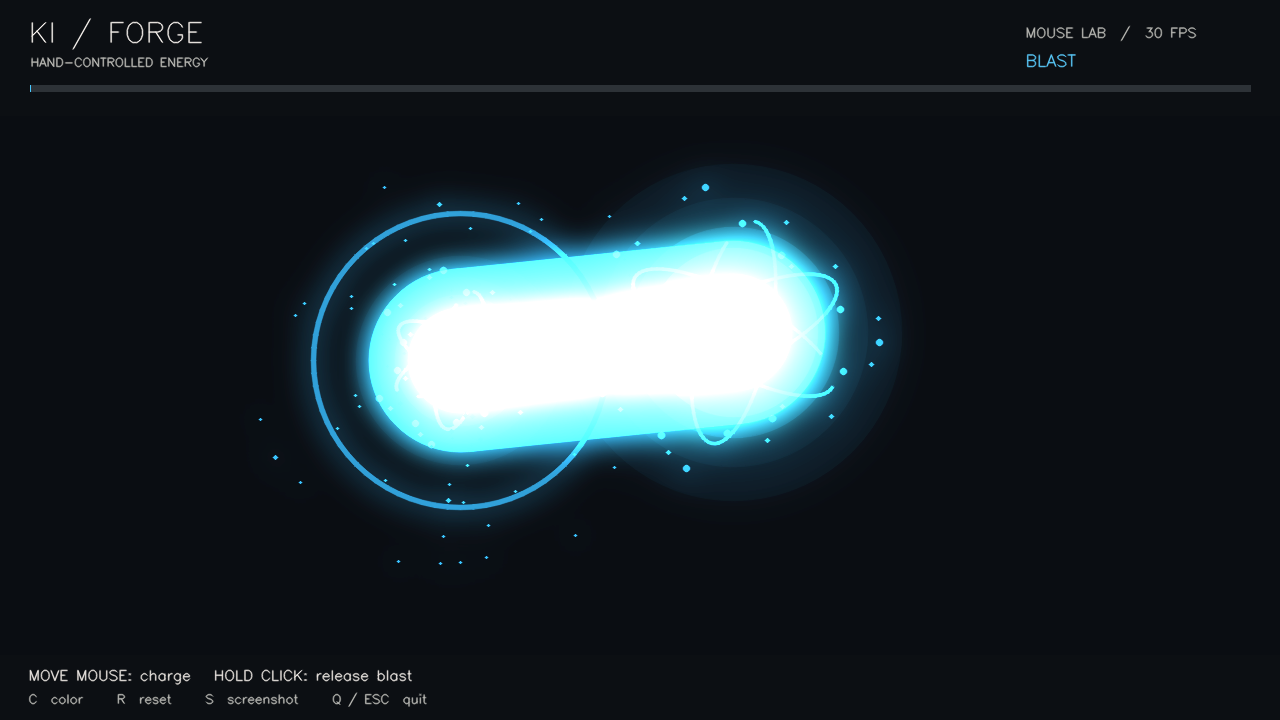
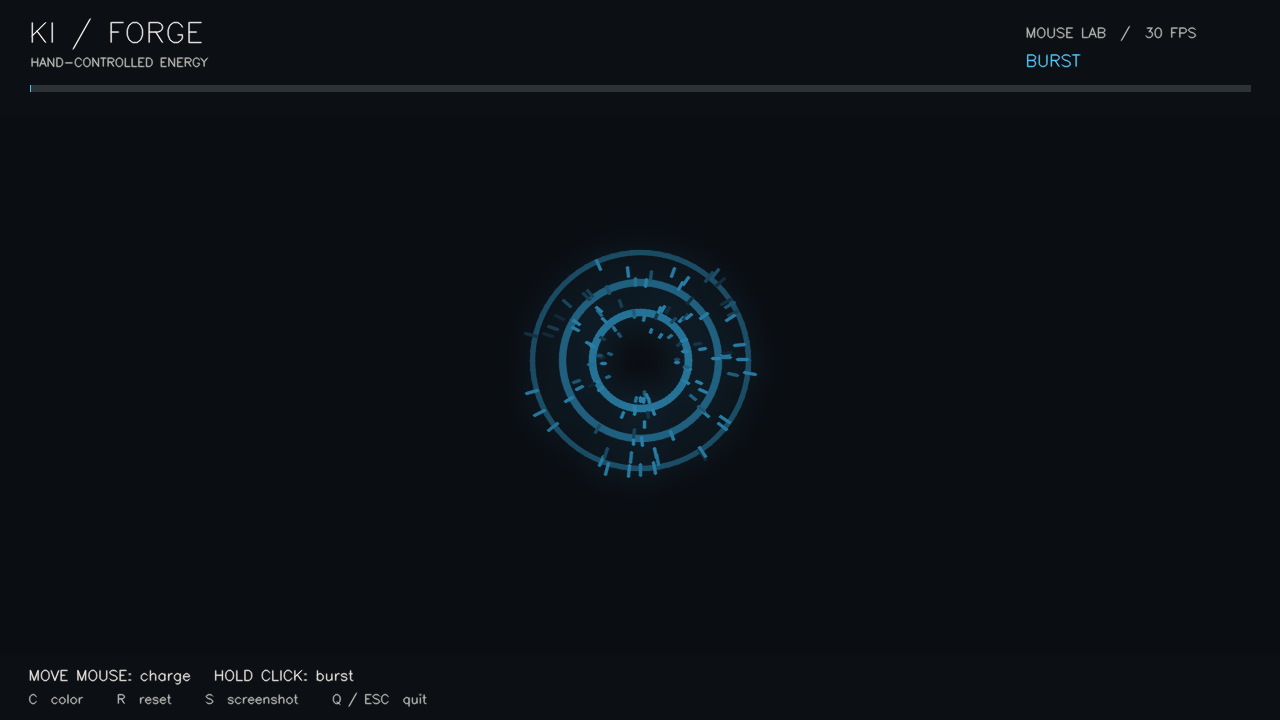
fix: burst the energy ball in place instead of launching a beam

Changed region(s): [[0.2188, 0.2139, 0.7188, 0.7333], [0.25, 0.9167, 0.3125, 0.9472], [0.8125, 0.0611, 0.8438, 0.0917]]

diff --git a/projects/003-ki-forge/ki_forge/effects.py b/projects/003-ki-forge/ki_forge/effects.py
@@ -1,4 +1,4 @@
-"""Additive light, orbiting sparks and travelling energy blasts."""
+"""Glowing energy orbs and bursts that expand from the palm."""
 import math
 import random
 import cv2
@@ -15,11 +15,11 @@ class Renderer:
         self.palette = 0
         self.time = 0
 
-    def blast(self, center, direction, radius):
-        self.blasts.append([*center, *direction, radius, 0.0, *center])
-        for _ in range(90):
+    def blast(self, center, radius):
+        self.blasts.append([*center, radius, 0.0])
+        for _ in range(120):
             angle = self.random.uniform(0, math.tau)
-            speed = self.random.uniform(100, 650)
+            speed = self.random.uniform(120, 460)
             self.particles.append([*center, math.cos(angle)*speed,
                                    math.sin(angle)*speed, self.random.uniform(.3, .9)])
 
@@ -29,10 +29,10 @@ class Renderer:
         x, y = map(int, center)
         radius = max(4, int(radius))
         color = PALETTES[self.palette]
-        for scale, intensity in ((2.0, .04), (1.6, .08), (1.25, .20), (1, .55), (.7, .8)):
+        for scale, intensity in ((2.0, .03), (1.6, .06), (1.25, .12), (1, .35), (.7, .5)):
             cv2.circle(layer, (x, y), int(radius*scale),
                        tuple(int(c*intensity) for c in color), -1, cv2.LINE_AA)
-        cv2.circle(layer, (x, y), int(radius*.40), (235, 250, 255), -1, cv2.LINE_AA)
+        cv2.circle(layer, (x, y), max(2, int(radius*.20)), (190, 220, 235), -1, cv2.LINE_AA)
         for i in range(3):
             angle = self.time * (1.5+i*.3) + i*2.1
             cv2.ellipse(layer, (x, y), (int(radius*1.35), int(radius*.45)),
@@ -46,35 +46,29 @@ class Renderer:
 
     def draw(self, frame, energy, dt):
         self.time += dt
-        height, width = frame.shape[:2]
         layer = np.zeros_like(frame)
         if energy.center is not None and energy.charge > .01:
-            radius = energy.radius * (.35 + .8*energy.charge)
+            radius = energy.radius * (.28 + .62*energy.charge)
             self.orb(layer, energy.center, radius*(1+.035*math.sin(self.time*18)), energy.charge)
         alive = []
         for blast in self.blasts:
-            blast[0] += blast[2]*820*dt
-            blast[1] += blast[3]*820*dt
-            blast[5] += dt
-            x, y, dx, dy, radius, age, ox, oy = blast
-            if age < 1.05:
+            blast[3] += dt
+            x, y, radius, age = blast
+            if age < 1.0:
                 color = PALETTES[self.palette]
-                origin, head = (int(ox), int(oy)), (int(x), int(y))
-                # Keep the beam anchored to the launch point long enough to read.
-                strength = min(1.0, age/.06) * min(1.0, max(0, (.75-age)/.28))
-                thickness = max(1, int(radius * 1.3 * strength))
-                if strength > 0:
-                    cv2.line(layer, origin, head, color, thickness*2, cv2.LINE_AA)
-                    cv2.line(layer, origin, head, (210, 245, 255), thickness, cv2.LINE_AA)
-                    cv2.line(layer, origin, head, (255, 255, 255),
-                             max(2, thickness//3), cv2.LINE_AA)
-                    self.orb(layer, origin, radius*(.5+.25*strength), 1)
-                ring = int(radius*(.6+age*4.5))
-                ring_color = tuple(int(c*max(0, 1-age)) for c in color)
-                cv2.circle(layer, origin, ring, ring_color,
-                           max(1, int(6*(1-age))), cv2.LINE_AA)
-                if -radius*3 < x < width+radius*3:
-                    self.orb(layer, head, radius*1.2, 1)
+                origin = (int(x), int(y))
+                # The center stays at the palm; only the shockwaves expand.
+                for delay in (0, .10, .20):
+                    progress = (age-delay)/.8
+                    if 0 < progress < 1:
+                        ring = max(2, int(radius*.4 + 240*progress))
+                        intensity = (1-progress)**1.4
+                        ring_color = tuple(int(c*intensity) for c in color)
+                        cv2.circle(layer, origin, ring, ring_color,
+                                   max(1, int(7*(1-progress))), cv2.LINE_AA)
+                if age < .18:
+                    flash_radius = max(2, int(radius*.65*(1-age/.18)))
+                    cv2.circle(layer, origin, flash_radius, (180, 215, 235), -1, cv2.LINE_AA)
                 alive.append(blast)
         self.blasts = alive
         alive = []
@@ -83,12 +77,16 @@ class Renderer:
             p[1] += p[3]*dt
             p[4] -= dt
             if p[4] > 0:
-                cv2.circle(layer, (int(p[0]), int(p[1])), max(1, int(p[4]*4)),
-                           PALETTES[self.palette], -1, cv2.LINE_AA)
+                color = tuple(int(c*min(1, p[4]*3)) for c in PALETTES[self.palette])
+                point = (int(p[0]), int(p[1]))
+                tail = (int(p[0]-p[2]*.025), int(p[1]-p[3]*.025))
+                cv2.line(layer, tail, point, color, 2, cv2.LINE_AA)
                 alive.append(p)
         self.particles = alive
         glow = cv2.GaussianBlur(layer, (0, 0), 15)
-        return cv2.add(frame, cv2.addWeighted(layer, .95, glow, 1.5, 0))
+        light = cv2.addWeighted(layer, .55, glow, .30, 0)
+        # Screen blending retains camera detail instead of clipping to white.
+        return cv2.add(frame, cv2.multiply(255-frame, light, scale=1/255))
 
 
 def hud(frame, energy, fps, demo=False):
@@ -105,8 +103,8 @@ def hud(frame, energy, fps, demo=False):
     label(energy.state, (w-255, 66), .55, (255, 205, 90))
     cv2.rectangle(frame, (30, 85), (w-30, 91), (55, 50, 45), -1)
     cv2.rectangle(frame, (30, 85), (30+int((w-60)*energy.charge), 91), (255, 200, 70), -1)
-    instruction = ('MOVE MOUSE: charge   HOLD CLICK: release blast' if demo else
-                   'OPEN PALM: charge   TWO PALMS: grow   CLOSE FIST: blast')
+    instruction = ('MOVE MOUSE: charge   HOLD CLICK: burst' if demo else
+                   'OPEN PALM: charge   TWO PALMS: grow   CLOSE FIST: burst')
     label(instruction, (28, h-40), .48, (225, 230, 235))
     label('C  color     R  reset     S  screenshot     Q / ESC  quit', (28, h-17), .42)
     return frame

diff --git a/projects/003-ki-forge/tests/test_effects.py b/projects/003-ki-forge/tests/test_effects.py
@@ -5,18 +5,29 @@ from ki_forge.gestures import Energy
 
 
 class BlastTests(unittest.TestCase):
-    def test_beam_connects_origin_to_head_and_expires(self):
+    def test_burst_stays_centered_and_expires(self):
         renderer = Renderer(seed=1)
-        renderer.blast((200, 240), (1, 0), 40)
+        renderer.blast((320, 240), 40)
         background = np.zeros((480, 640, 3), dtype=np.uint8)
         energy = Energy()
         for _ in range(9):
             frame = renderer.draw(background, energy, 1/30)
-        self.assertGreater(int(frame[240, 300].min()), 180)
+        self.assertEqual(renderer.blasts[0][:2], [320, 240])
+        self.assertGreater(int(frame.sum()), 0)
+        # After the central flash, the center clears instead of moving sideways.
+        self.assertLess(int(frame[240, 320].max()), 10)
         for _ in range(40):
             renderer.draw(background, energy, 1/30)
         self.assertEqual(renderer.blasts, [])
         self.assertEqual(renderer.particles, [])
+
+    def test_glow_keeps_detail_on_a_bright_camera_frame(self):
+        renderer = Renderer(seed=1)
+        energy = Energy()
+        energy.center, energy.charge = (320, 240), 1
+        frame = np.full((480, 640, 3), 200, dtype=np.uint8)
+        result = renderer.draw(frame, energy, 1/30)
+        self.assertLess(int(result.max()), 255)
 
 
 if __name__ == '__main__':

diff --git a/projects/003-ki-forge/ki_forge/__main__.py b/projects/003-ki-forge/ki_forge/__main__.py
@@ -111,7 +111,7 @@ def main():
                              data=cv2.cvtColor(frame, cv2.COLOR_BGR2RGB)), timestamp)
                 hands = [describe(points, width, height) for points in result.hand_landmarks]
             if energy.update(hands, dt, width):
-                renderer.blast(energy.center, energy.direction, energy.radius)
+                renderer.blast(energy.center, energy.radius)
             fps = fps*.9 + .1/max(dt, .001)
             output = hud(renderer.draw(frame, energy, dt), energy, fps, args.demo)
             cv2.imshow(window, output)

diff --git a/projects/003-ki-forge/README.md b/projects/003-ki-forge/README.md
@@ -2,13 +2,13 @@
 
 **Project 003 / 100 Days, 100 Projects**
 
-Summon a glowing energy ball in your palm, charge it between two hands, then close your fist to launch it across your webcam feed. Inspired by anime energy attacks, built with Python, OpenCV and MediaPipe.
+Summon a glowing energy ball in your palm, charge it between two hands, then close your fist to burst it in place at your hand. Inspired by anime energy attacks, built with Python, OpenCV and MediaPipe.
 
 ![Ki Forge mouse lab preview](assets/preview.png)
 
-Firing creates an anchored energy beam with a bright core, a travelling head and an expanding shockwave:
+Closing your fist bursts the ball at its current position: expanding shockwaves and sparks scatter outward, then fade.
 
-![Energy beam blast](assets/blast-preview.png)
+![Palm energy burst](assets/blast-preview.png)
 
 ## Run
 
@@ -51,7 +51,7 @@ python -m ki_forge --demo
 | --- | --- |
 | Show an open palm | Summon and charge an energy ball |
 | Hold two open palms near each other | Center the ball between your hands; hand spacing sets its size |
-| Close your fist once READY appears | Launch a blast; left half fires left, right half fires right |
+| Close your fist once READY appears | Burst the ball in place with radial sparks and shockwaves |
 | C | Cycle blue, gold and violet energy |
 | R | Reset energy and particles |
 | S | Save a screenshot in `captures/` |
@@ -61,7 +61,7 @@ In mouse mode, move to steer and charge. Hold the left mouse button briefly to f
 
 ## How it works
 
-MediaPipe's Hand Landmarker finds 21 landmarks per hand. Wrist-to-fingertip distances estimate open fingers without relying on the hand pointing upward. A time-based state machine charges, debounces a closed fist, and applies a cooldown. OpenCV composites layered circles, elliptical energy rings, orbiting sparks, bloom and travelling projectiles over a mirrored camera image. The two-hand mode follows the midpoint of the palms.
+MediaPipe's Hand Landmarker finds 21 landmarks per hand. Wrist-to-fingertip distances estimate open fingers without relying on the hand pointing upward. A time-based state machine charges, debounces a closed fist, and applies a cooldown. OpenCV composites layered circles, elliptical energy rings, orbiting sparks, gentle bloom and expanding radial bursts over a mirrored camera image. The two-hand mode follows the midpoint of the palms.
 
 This is a gesture playground: fist detection is a geometric heuristic, and overlapping hands or extreme angles can confuse it. Effects are screen-space graphics, so they draw over the hand rather than behind fingers.
 
